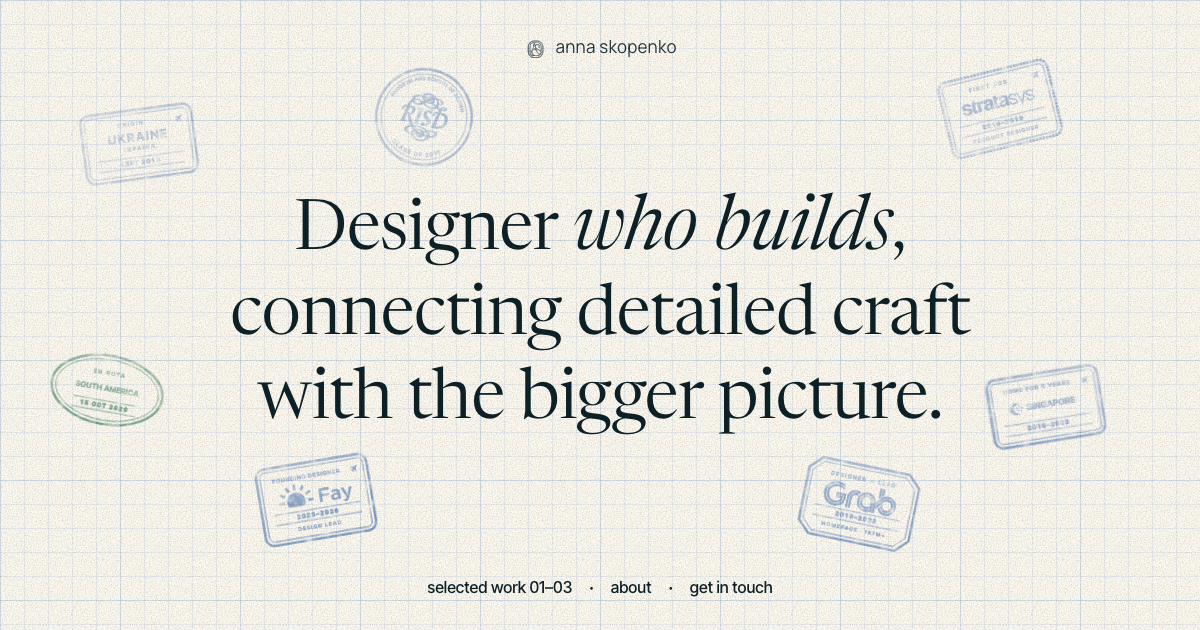
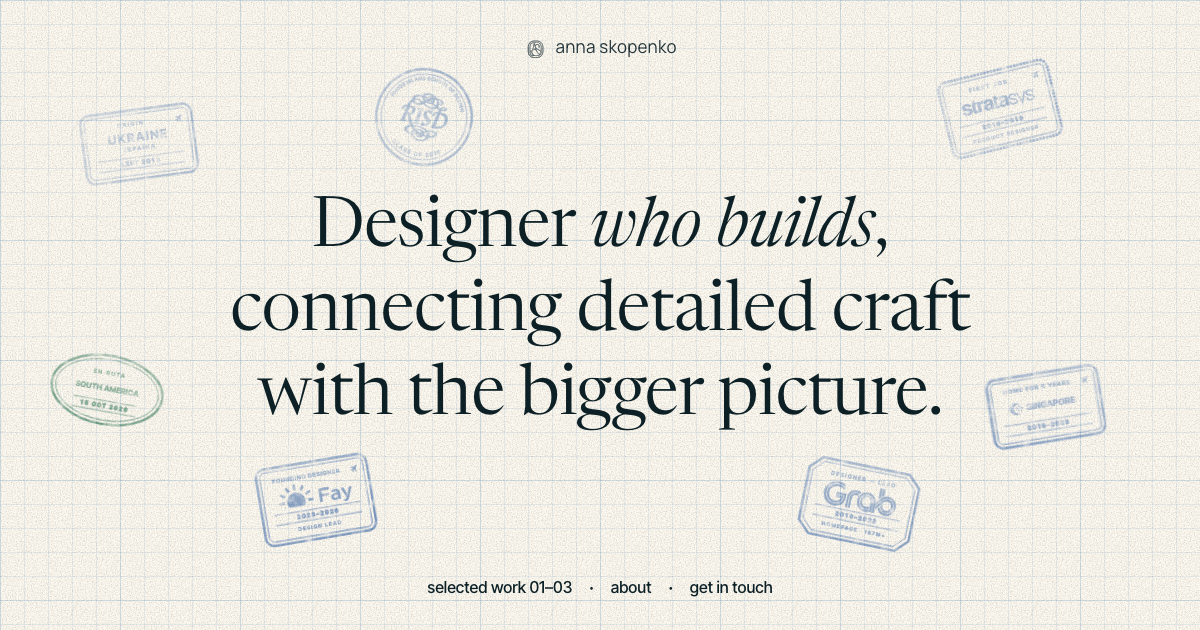
Size the headline italic to match the roman

Changed region(s): [[0.185, 0.4222, 0.8017, 0.6937], [0.2467, 0.3016, 0.74, 0.4222], [0.5858, 0.6635, 0.6167, 0.6937]]

diff --git a/styles.css b/styles.css
@@ -263,7 +263,7 @@ a { color: inherit; }
   text-wrap: balance;
 }
 .hero-headline em {
-  font-size: 1.09em; /* Figma: italic 96 over roman 88 */
+  font-size: 0.98em; /* the slant reads larger at the same size */
 }
 
 .hero-nav {
